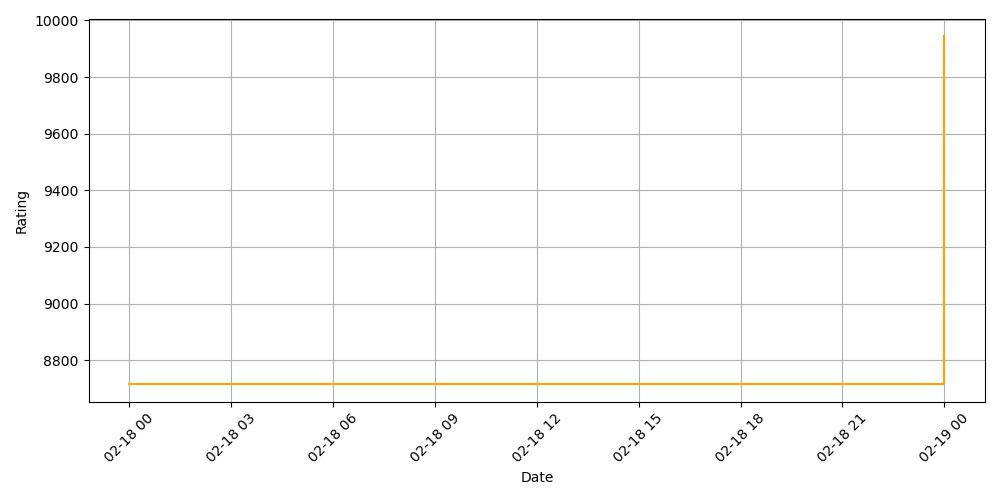
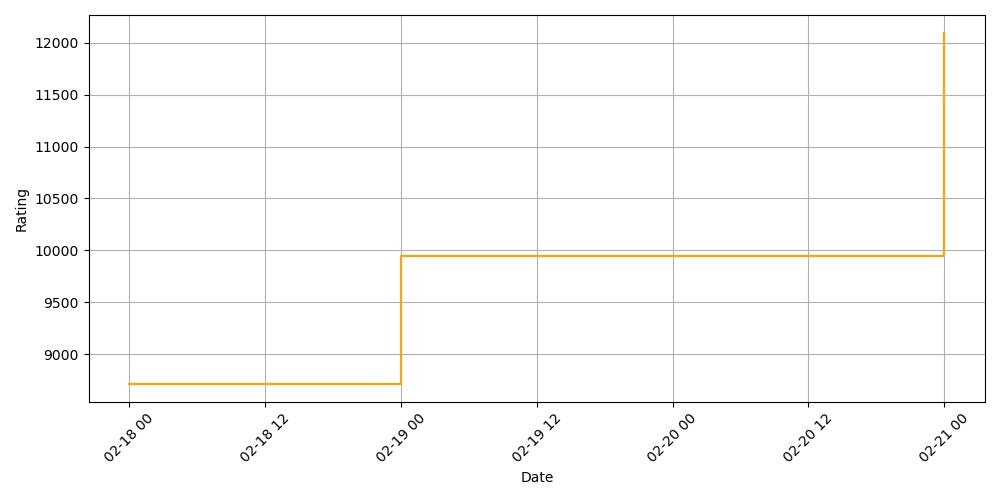
I am real w2

diff --git a/history/graph.py b/history/graph.py
@@ -83,20 +83,28 @@ def main():
         last_real_rating = row[1]
     print(f"Last rating: {last_rating}")
     print(f"Current rating: {current_rating}")
-    print(f"Diff: {int(current_rating) - int(last_rating)}")
+    diff = int(current_rating) - int(last_rating)
+    print(f"Diff: {diff}")
     print(f"Real rating: {last_real_rating}")
     print(f"Current real rating: {current_real_rating}")
-    print(f"Diff: {int(current_real_rating) - int(last_real_rating)}")
-    with open('history/rating.csv', 'a', newline='') as csvfile:
-        writer = csv.writer(csvfile)
-        writer.writerow([time, last_rating])
-        writer.writerow([time, current_rating])
-    with open('history/realrating.csv', 'a', newline='') as realcsvfile:
-        writer = csv.writer(realcsvfile)
-        writer.writerow([time, last_real_rating])
-        writer.writerow([time, current_real_rating])
+    real_diff = int(current_real_rating) - int(last_real_rating)
+    print(f"Diff: {real_diff}")
+    if diff > 0:
+        with open('history/rating.csv', 'a', newline='') as csvfile:
+            writer = csv.writer(csvfile)
+            writer.writerow([time, last_rating])
+            writer.writerow([time, current_rating])
+        draw_graph()
+    else:
+        print("No change in rating")
+    if real_diff > 0:
+        with open('history/realrating.csv', 'a', newline='') as realcsvfile:
+            writer = csv.writer(realcsvfile)
+            writer.writerow([time, last_real_rating])
+            writer.writerow([time, current_real_rating])
+        draw_real_graph()
+    else:
+        print("No change in real rating")
 
 if __name__ == "__main__":
     main()
-    draw_graph()
-    draw_real_graph()
